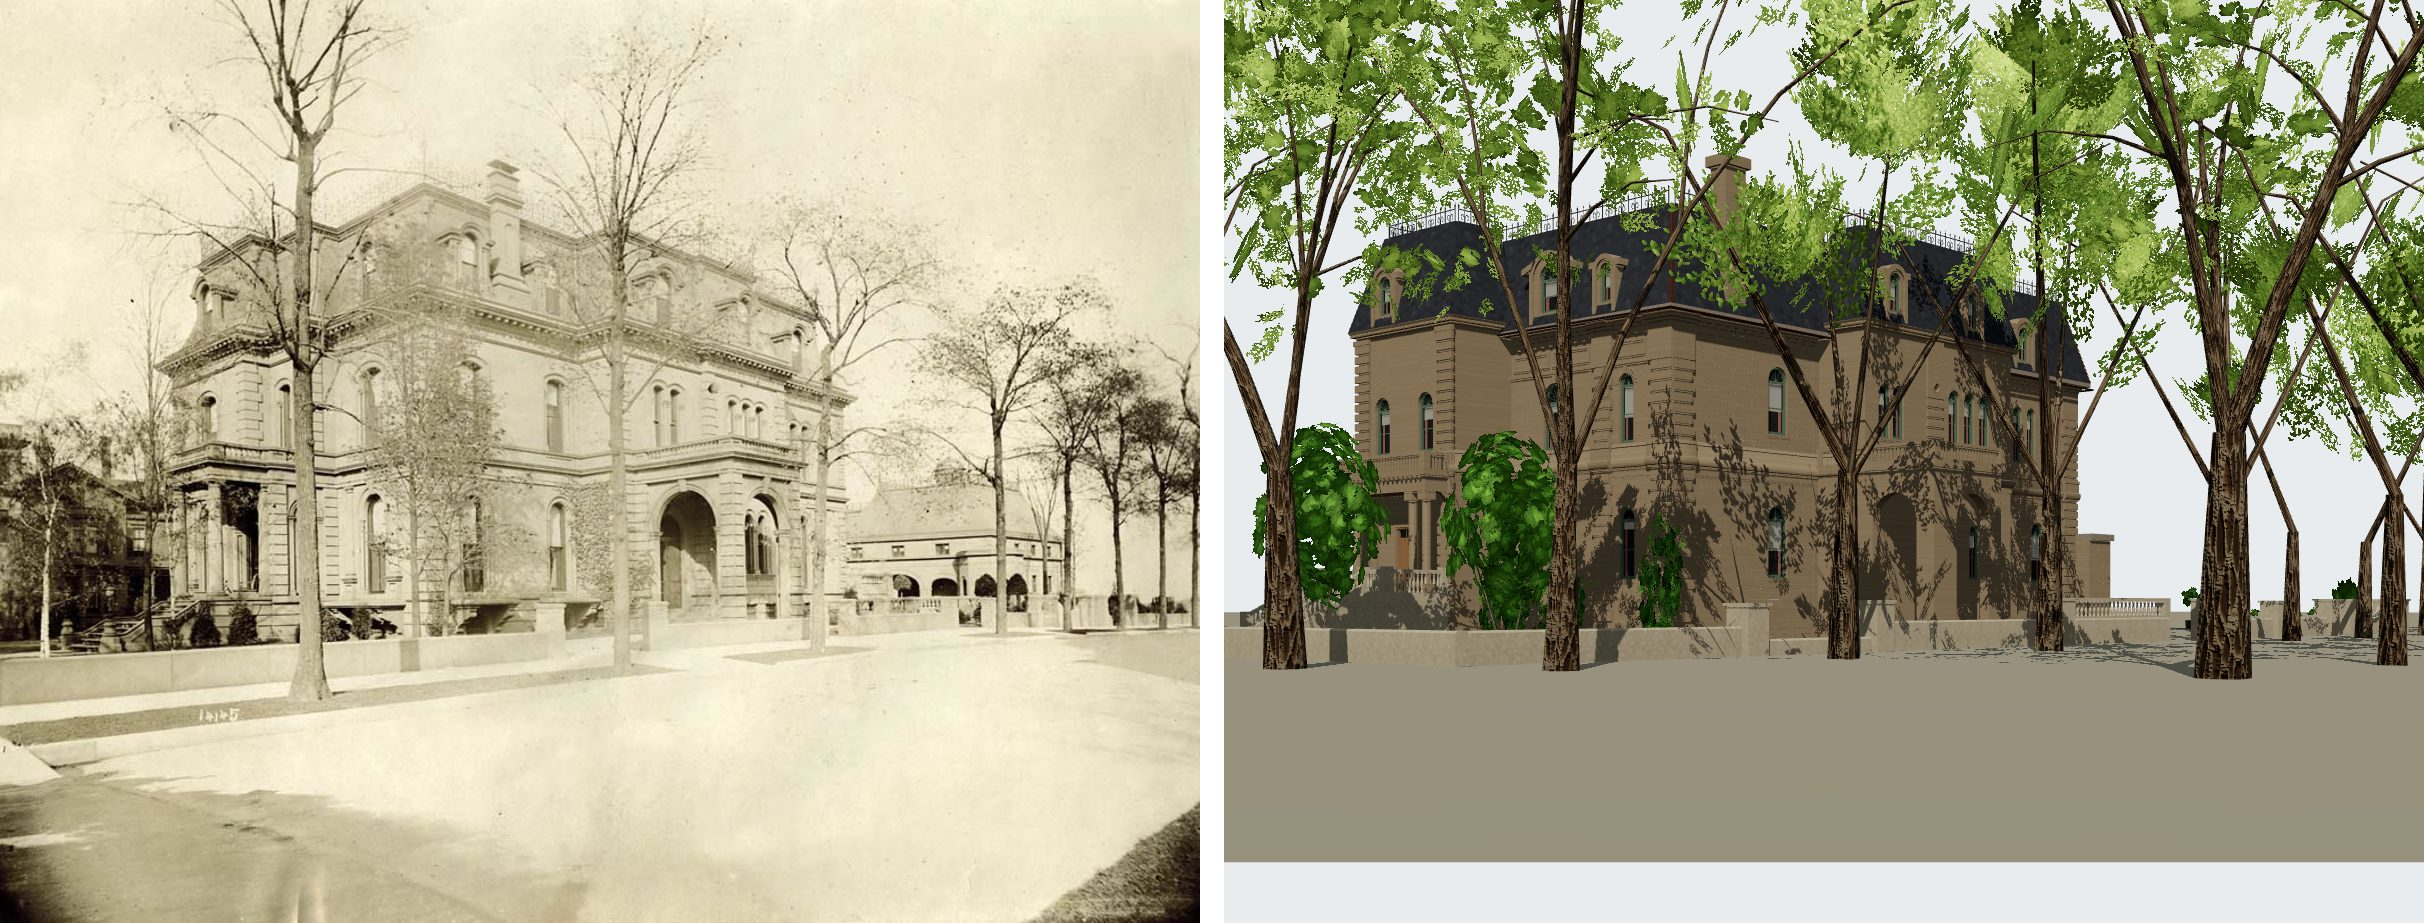
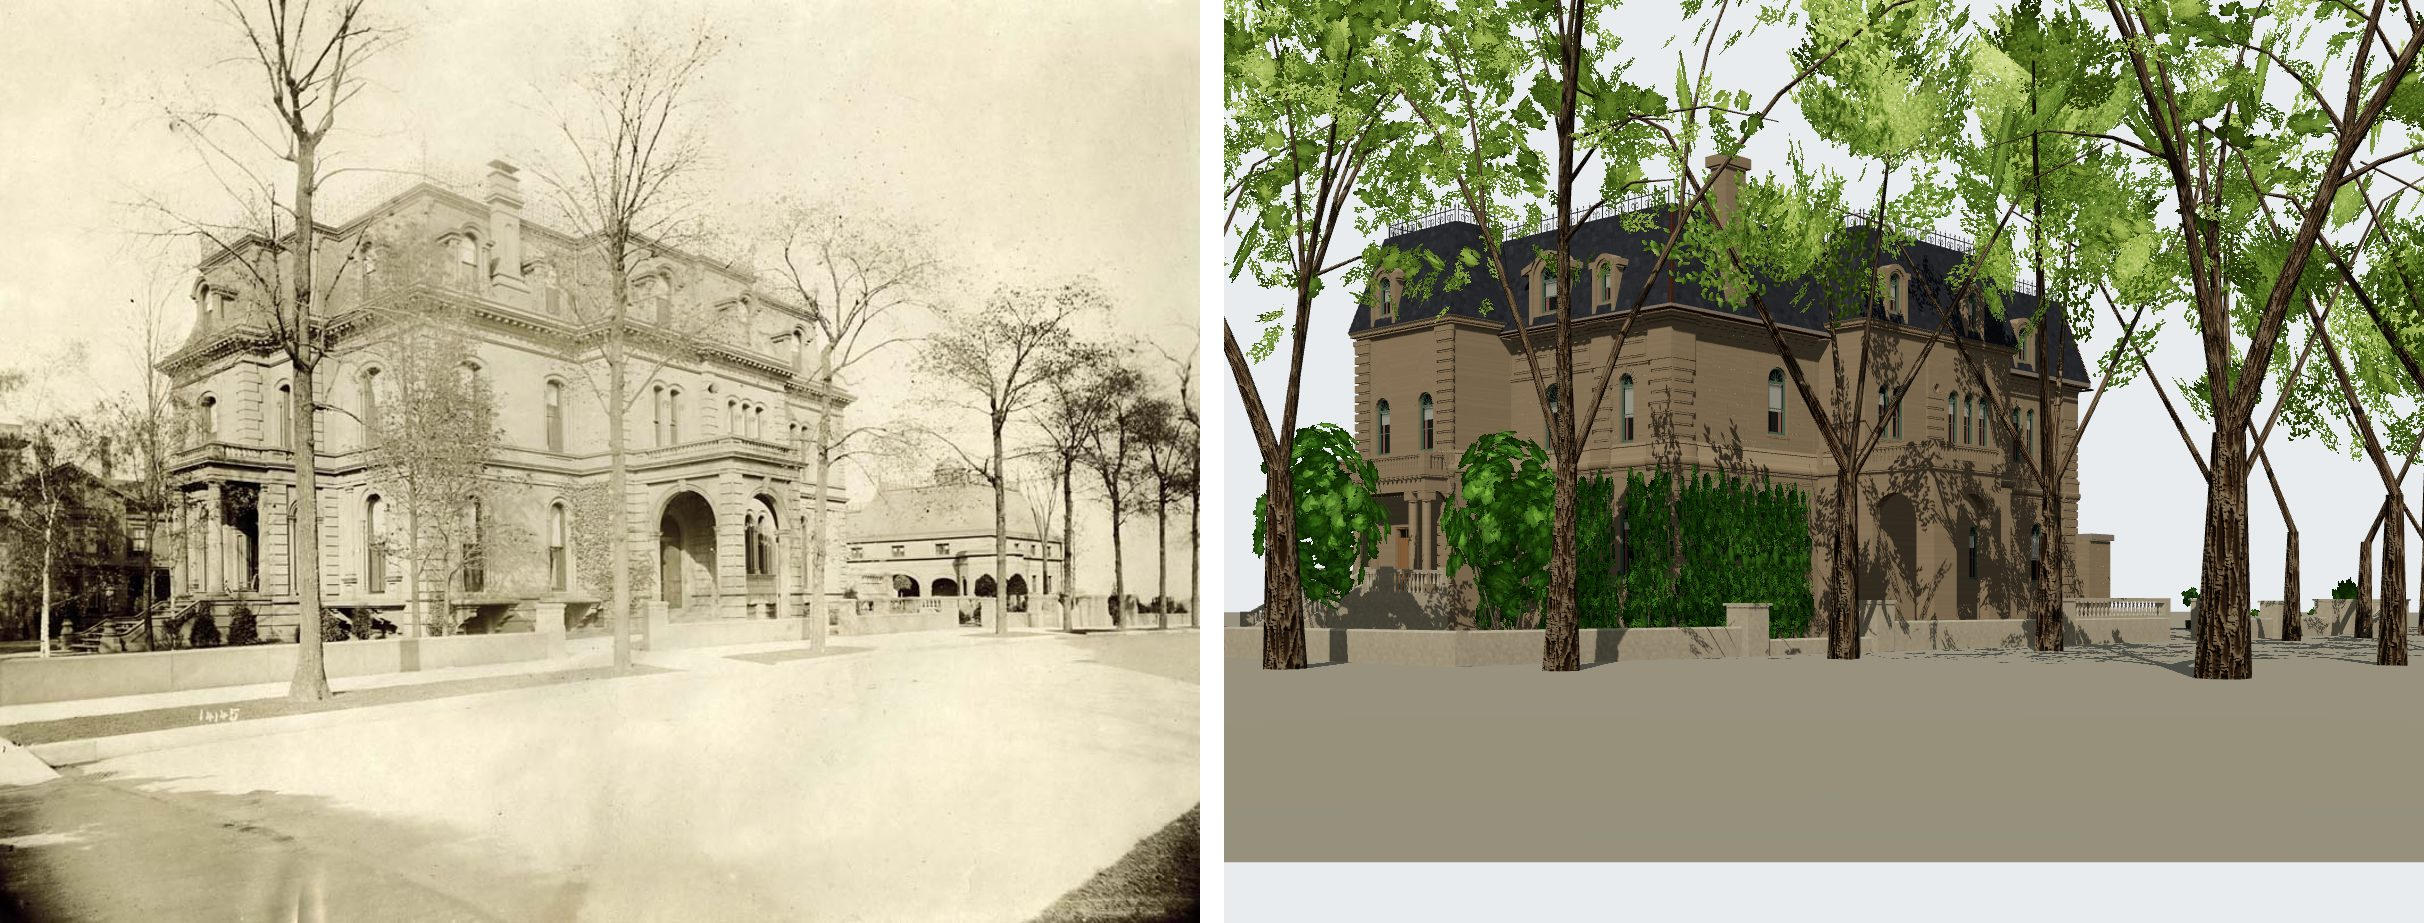
T-1881: 1729 Prairie's ivy as one mantle over the ground storey, off the Detroit print
The Detroit Publishing view (LC-D4-12551, 1893-1901) shows the front's ground storey south of
the portico and the 18th Street flank west of the porte-cochere wholly clothed in Boston ivy up
to the balcony's belt course, leaving the two round-arched lights clear. The front-yard
generator gains creeper_walls (pictured stretches planted edge to edge, kept clear of a
sidecar's street-front windows and clothed under their sills), and the wall-vine template a
'mantle' habit whose top is held level. Match records re-rendered and re-reviewed.

Changed region(s): [[0.5879, 0.5157, 0.7735, 0.6977]]

diff --git a/chicago/4d/renderers/web/js/tree-model.js b/chicago/4d/renderers/web/js/tree-model.js
@@ -1598,6 +1598,10 @@ export function buildVineTemplate(spec, seed, lod = 'near', { conf = 0.5 } = {})
  * few woody stems climbing out of the ground under it. Built in the wall's frame: the
  * wall is the plane x = 0, the leaves stand off it toward +x (the instance's yaw turns
  * +x out of the wall), z runs along it; `crownW` is its width and `h` its height.
+ * T-1881: `arch: 'mantle'` is a stretch a picture shows wholly clothed (Pullman's ground
+ * storey under its balcony in LC-D4-12551): the same mat, its top held near `h` with only
+ * short tongues, so a row of overlapping patches reads as one level-topped mantle;
+ * `mantle_sill` is the same mat kept under a window's sill in such a stretch.
  */
 export function buildWallVineTemplate(spec, seed, lod = 'near', { conf = 0.5, leafCover = 1 } = {}) {
   const rnd = mulberry32(seed);
@@ -1606,6 +1610,8 @@ export function buildWallVineTemplate(spec, seed, lod = 'near', { conf = 0.5, le
   const W = spec.crownW ? (spec.crownW[0] + spec.crownW[1]) / 2 : Math.max(1.2, H * 0.4);
   // The top edge, a smooth random walk: tongues of ivy climbing ahead of the mat.
   const TOP_COLS = 12;
+  const mantle = spec.arch === 'mantle' || spec.arch === 'mantle_sill';
+  const [topFloor, edgeFloor] = mantle ? [0.88, 0.9] : [0.6, 0.7];
   const top = [];
   let tv = rnd();
   for (let c = 0; c <= TOP_COLS; c++) { tv = clamp01(tv + (rnd() - 0.5) * 0.55); top.push(tv); }
@@ -1634,7 +1640,7 @@ export function buildWallVineTemplate(spec, seed, lod = 'near', { conf = 0.5, le
         const u = clamp01((c + (lrnd() - 0.5) * 0.9) / cols) * 2 - 1;
         const y = ((r + (lrnd() - 0.5) * 0.9) / rows) * H;
         const edge = 1 - Math.pow(Math.abs(u), 5);
-        const yTop = H * (0.6 + 0.4 * topAt(u)) * (0.7 + 0.3 * edge);
+        const yTop = H * (topFloor + (1 - topFloor) * topAt(u)) * (edgeFloor + (1 - edgeFloor) * edge);
         if (y < 0 || y > yTop) continue;
         const up = y / H;
         // Thinner toward the ragged top and the loose side edges.

diff --git a/chicago/4d/renderers/web/js/front-yards.js b/chicago/4d/renderers/web/js/front-yards.js
@@ -344,9 +344,9 @@ export async function createFrontYards({
     }
     const cg = lot.pictured_notes?.creeper?.grade ?? 'reconstructed';
     for (const [i, c] of (lot.creeper ?? []).entries()) {
-      const [e, n, facing, w, h] = c;
+      const [e, n, facing, w, h, form] = c;
       placed.push({ x: e, z: -n, y: groundAt(e, n), h, w, facing, plant: 'ivy', grade: cg, conf: CONF[cg] ?? 1,
-        lot, kind: 'creeper', index: i });
+        lot, kind: 'creeper', index: i, mantle: form === 'mantle' || form === 'mantle_sill' ? form : null });
       stats.creeper += 1;
     }
   }
@@ -428,7 +428,9 @@ export async function createFrontYards({
       if (p.tub && wantMode === 'winter') continue;
       if (p.kind === 'creeper') {
         // Its +x out of the wall: a compass bearing turned into the batches' yaw.
-        const spec = ivySpec(2.4, 6, p.conf);
+        // a pictured stretch wholly clothed keeps its own level-topped variants, and the low
+        // patches under its windows theirs, so neither is grown at the other's height (T-1881)
+        const spec = { ...ivySpec(2.4, 6, p.conf), ...(p.mantle ? { arch: p.mantle } : {}) };
         grown.add({ ...spec, h: [p.h, p.h] }, p.x, p.y, p.z, 1,
           { yaw: Math.PI / 2 - (p.facing * Math.PI) / 180, crownW: p.w });
         continue;

diff --git a/chicago/4d/tools/plant_prairie_1904_front_yards.py b/chicago/4d/tools/plant_prairie_1904_front_yards.py
@@ -105,7 +105,28 @@ PICTURED = {
         "pictures": ["a16-pullman-det-4a08065", "a16-pullman-det-4a08066"],
         "creeper": {"faces": ["street"], "cover": 0.7, "height_m": [3.5, 7.5], "grade": "attested",
                     "note": "Ivy over the west front and the porch, to about the second storey's sills and "
-                            "past them on the porch's piers (both Detroit Publishing views)."},
+                            "past them on the porch's piers (both Detroit Publishing views); a solid mantle "
+                            "over the whole ground storey of the front south of the portico and of the 18th "
+                            "Street flank west of the porte-cochere, up to the balcony's belt course "
+                            "(LC-D4-12551)."},
+        # T-1881: the stretches a picture shows wholly clothed, each read through the Detroit print's
+        # solved camera (data/reference_views/pullman_house_1729_prairie/detroit_det_4a08065.json),
+        # which lays the lot's s/d metres on the print's x: the front's face (d 16.8) from s 25 at
+        # x 426 to the south-west corner at s 34.5, x 565 (the print's corner is at x 557-560), and
+        # the flank's west part (s 34.5) from the corner to the pavilion's west face at d 24.5, x 608.
+        # The print's leaves run unbroken from x 400 (the portico's south column) to x 608 and rise
+        # to y 387-395 under the balcony, which the camera reads as 6.6-7.0 m over the walk.
+        # Taylor's no. 1445, earlier, shows younger ivy on the same two stretches. `face` "street" is
+        # the front (`span_m` in s), "high_s" the side wall that faces the lot's high-s line, 18th
+        # Street here (`span_m` in d). Every cell of a stretch is planted (no `cover` roll).
+        "creeper_walls": [
+            {"face": "street", "span_m": [25.0, 34.6], "height_m": [6.4, 7.0],
+             # the print's leaves stop at the principal storey's two round-arched lights (heads at
+             # y 411 and 418): the model's own, so the mantle keeps clear of them where they stand
+             "clear_windows": {"sidecar": "pullman_house_1729_prairie", "storey": 0, "face_u_m": 27.75,
+                               "margin_m": 0.0}},
+            {"face": "high_s", "span_m": [16.6, 24.4], "height_m": [6.4, 7.0]},
+        ],
         # T-1934 (the owner, 2026-10-30: the carriage ways with "no plants blocking it"): the border
         # starts at the house's east wall (d 45.5), where the print shows it, not along the house's
         # flank, where it stood across the porte-cochere's carriage way; and it stops short of the
@@ -596,6 +617,29 @@ class Yard:
         return f"too near {', '.join(near)}" if near else None
 
 
+def window_spans(y, cw):
+    """The s span, in the lot's frame, of each street-front window of one storey of a structure's
+    sidecar (its `street_front_windows`, s_m along the K01 frame's v), widened by `margin_m`, with
+    its sill's height."""
+    sc = json.loads((SIDECARS / f"{cw['sidecar']}.json").read_text())
+    pl = sc["placement"]
+    rd = math.radians(pl.get("rotation_deg") or 0.0)
+    cd, sd = math.cos(rd), math.sin(rd)
+    out = []
+    for wnd in sc["attributes"]["street_front_windows"]["value"]["windows"]:
+        if wnd["storey"] != cw["storey"]:
+            continue
+        half = wnd["width_m"] / 2 + cw["margin_m"]
+        ends = []
+        for v in (wnd["s_m"] - half, wnd["s_m"] + half):
+            # the K01 frame's (u, v) as lay_structure places a model's (x, -z)
+            e = pl["local_e"] + cw["face_u_m"] * cd + v * sd
+            n = pl["local_n"] - cw["face_u_m"] * sd + v * cd
+            ends.append((e - y.A[0]) * y.su[0] + (n - y.A[1]) * y.su[1])
+        out.append((min(ends), max(ends), wnd["sill_m"]))
+    return out
+
+
 def plant_lot(p, plan: Plan, house, sids):
     y = Yard(p, plan, house, sids)
     if not y.ok:
@@ -805,7 +849,12 @@ def plant_lot(p, plan: Plan, house, sids):
         hugc = (y.inlot & ~H & (y.dh <= 0.3) & behind & ((d < front + 6.0) | (d < face_d + 0.6))
                 & (y.terms["a walk"] >= 0.0)
                 & (y.terms["a door or the way to it"] >= 0.0))
-        cand = list(np.flatnonzero(hugc))
+        walls = pic.get("creeper_walls", [])
+        in_walls = np.zeros(hugc.shape, bool)
+        for wl in walls:
+            if wl["face"] == "street":
+                in_walls |= (s >= wl["span_m"][0]) & (s <= wl["span_m"][1])
+        cand = list(np.flatnonzero(hugc & ~in_walls))
         rng.shuffle(cand)
         cand.sort(key=lambda i: s.flat[i])
         last = -9.0
@@ -822,6 +871,54 @@ def plant_lot(p, plan: Plan, house, sids):
             e, n = y.world(i)
             creeper.append([e, n, r2(math.degrees(math.atan2(-y.nu[0], -y.nu[1])) % 360),
                             w, r2(rng.uniform(*cr["height_m"]))])
+        # the stretches a picture shows wholly clothed (T-1881): a patch every 0.9 m along the
+        # wall's foot, each wider than the step, so the leaves close into one mantle
+        for wl in walls:
+            lo, hi = wl["span_m"]
+            if wl["face"] == "street":
+                along, out_ = s, -y.nu
+                mask = hugc & (s >= lo) & (s <= hi)
+            else:   # the side wall facing the lot's high-s line: its cells have the house 0.5 m toward low s
+                along, out_ = d, y.su
+                beside = ndimage.shift(H.astype(np.uint8), (y.su[1] * sh, y.su[0] * sh), order=0, cval=0) > 0
+                # ...on the wall's outer face, not a jog nearer the front facing the same way
+                s_face = float(s[H & (d >= lo) & (d <= hi)].max())
+                mask = (y.inlot & ~H & (y.dh <= 0.3) & beside & (d >= lo) & (d <= hi) & (s >= s_face - 0.6)
+                        & (y.terms["a walk"] >= 0.0) & (y.terms["a door or the way to it"] >= 0.0))
+            idx = np.flatnonzero(mask)
+            if not len(idx):
+                continue
+            facing = r2(math.degrees(math.atan2(out_[0], out_[1])) % 360)
+            # the stretch less its windows, each run of wall clothed edge to edge: a patch every
+            # 0.9 m or less, none reaching past the run's ends
+            gaps = sorted(window_spans(y, wl["clear_windows"])) if "clear_windows" in wl else []
+            runs, a = [], max(lo, float(along.flat[idx].min()))
+            for g0, g1, _ in gaps:
+                if g0 > a:
+                    runs.append((a, min(g0, hi)))
+                a = max(a, g1)
+            runs.append((a, min(hi, float(along.flat[idx].max()))))
+            for a, b in runs:
+                if b - a < 0.4:
+                    continue
+                k = max(1, math.ceil((b - a) / 0.9))
+                step = (b - a) / k
+                for j in range(k):
+                    c = a + (j + 0.5) * step
+                    i = idx[np.argmin(np.abs(along.flat[idx] - c) + y.dh.flat[idx])]
+                    w = r2(min(rng.uniform(1.4, 1.9), 2 * min(c - a, b - c) + step * 0.3))
+                    if y.terms["a door or the way to it"].flat[i] < w / 2:
+                        continue
+                    e, n = y.world(i)
+                    creeper.append([e, n, facing, w, r2(rng.uniform(*wl["height_m"])), "mantle"])
+            # ...and under each window, the wall below its sill clothed up to the sill
+            for g0, g1, sill in gaps:
+                c = (g0 + g1) / 2
+                i = idx[np.argmin(np.abs(along.flat[idx] - c) + y.dh.flat[idx])]
+                if abs(along.flat[i] - c) > 0.5 or y.terms["a door or the way to it"].flat[i] < (g1 - g0) / 2:
+                    continue
+                e, n = y.world(i)
+                creeper.append([e, n, facing, r2(g1 - g0 + 0.2), r2(sill - 0.05), "mantle_sill"])
 
     out = {
         "parcel": p["id"], "street": p["street"], "side": p.get("side"),
@@ -919,7 +1016,8 @@ def build(laid=None):
                 "tool. Local ENU metres of data/datum.json. shrubs and trees: [e, n, plant, height_m, "
                 "crown_width_m, (grade if not the lot's), (stand_m, tub_m: a tub plant's, what its tub stands on "
                 "over the ground and the tub's height)]; beds: [e, n, half_length_m, half_width_m, "
-                "heading_deg, kind, scheme]; creeper: [e, n, facing_deg, width_m, height_m]. The lawn is "
+                "heading_deg, kind, scheme]; creeper: [e, n, facing_deg, width_m, height_m, (\"mantle\" on a "
+                "stretch a picture shows wholly clothed, \"mantle_sill\" under a window in it: its top drawn level)]. The lawn is "
                 "the ground's own sward.",
         "scene": "1904", "target_date": "1904-07-01", "ticket": "T-3223",
         "generated_by": "tools/plant_prairie_1904_front_yards.py",
